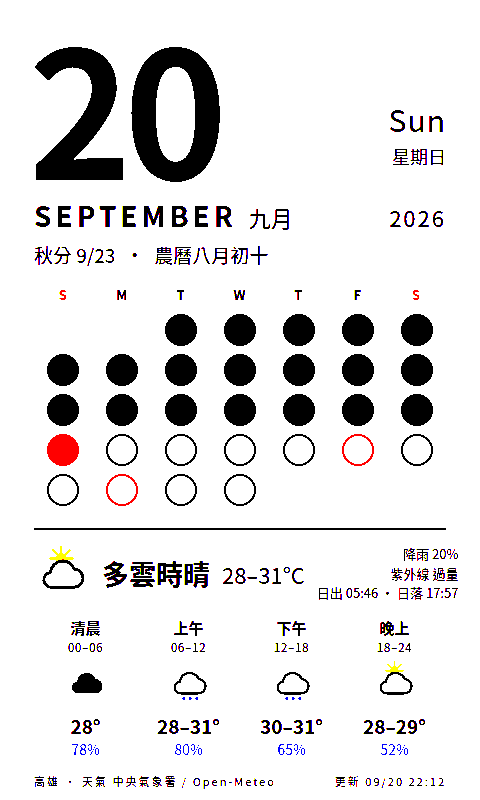
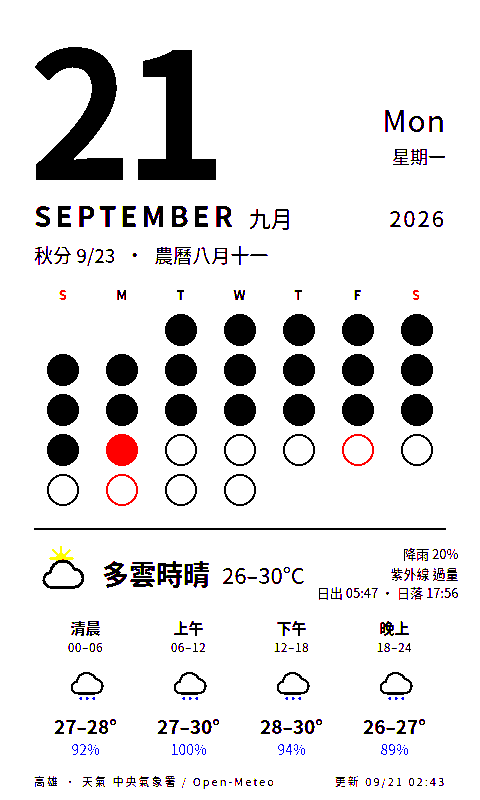
deploy: cf7d1051eb6821bc691ba0ade4beb12cdf9fe0ef

diff --git a/calendar.html b/calendar.html
@@ -47,16 +47,16 @@
 </style></head>
 <body><div class="page">
   <div class="head">
-    <div class="num">20</div>
-    <div class="wd"><div class="en">Sun</div><div class="zh">星期日</div></div>
+    <div class="num">21</div>
+    <div class="wd"><div class="en">Mon</div><div class="zh">星期一</div></div>
   </div>
   <div class="month"><span class="en">SEPTEMBER</span><span class="zh">九月</span><span class="yr">2026</span></div>
-  <div class="today"><span class="lunar">秋分 9/23</span><span>·</span><span class="lunar">農曆八月初十</span></div>
-  <div class="grid"><div class="h we">S</div><div class="h">M</div><div class="h">T</div><div class="h">W</div><div class="h">T</div><div class="h">F</div><div class="h we">S</div><div class="dot empty"></div><div class="dot empty"></div><div class="dot past" title="1"></div><div class="dot past" title="2"></div><div class="dot past" title="3"></div><div class="dot past" title="4"></div><div class="dot past" title="5"></div><div class="dot past" title="6"></div><div class="dot past" title="7"></div><div class="dot past" title="8"></div><div class="dot past" title="9"></div><div class="dot past" title="10"></div><div class="dot past" title="11"></div><div class="dot past" title="12"></div><div class="dot past" title="13"></div><div class="dot past" title="14"></div><div class="dot past" title="15"></div><div class="dot past" title="16"></div><div class="dot past" title="17"></div><div class="dot past" title="18"></div><div class="dot past" title="19"></div><div class="dot now" title="20"></div><div class="dot future" title="21"></div><div class="dot future" title="22"></div><div class="dot future" title="23"></div><div class="dot future" title="24"></div><div class="dot future hol" title="25"></div><div class="dot future" title="26"></div><div class="dot future" title="27"></div><div class="dot future hol" title="28"></div><div class="dot future" title="29"></div><div class="dot future" title="30"></div></div>
+  <div class="today"><span class="lunar">秋分 9/23</span><span>·</span><span class="lunar">農曆八月十一</span></div>
+  <div class="grid"><div class="h we">S</div><div class="h">M</div><div class="h">T</div><div class="h">W</div><div class="h">T</div><div class="h">F</div><div class="h we">S</div><div class="dot empty"></div><div class="dot empty"></div><div class="dot past" title="1"></div><div class="dot past" title="2"></div><div class="dot past" title="3"></div><div class="dot past" title="4"></div><div class="dot past" title="5"></div><div class="dot past" title="6"></div><div class="dot past" title="7"></div><div class="dot past" title="8"></div><div class="dot past" title="9"></div><div class="dot past" title="10"></div><div class="dot past" title="11"></div><div class="dot past" title="12"></div><div class="dot past" title="13"></div><div class="dot past" title="14"></div><div class="dot past" title="15"></div><div class="dot past" title="16"></div><div class="dot past" title="17"></div><div class="dot past" title="18"></div><div class="dot past" title="19"></div><div class="dot past" title="20"></div><div class="dot now" title="21"></div><div class="dot future" title="22"></div><div class="dot future" title="23"></div><div class="dot future" title="24"></div><div class="dot future hol" title="25"></div><div class="dot future" title="26"></div><div class="dot future" title="27"></div><div class="dot future hol" title="28"></div><div class="dot future" title="29"></div><div class="dot future" title="30"></div></div>
   <div class="wx"><div class="line">
-    <div class="wxhead"><svg viewBox="0 0 64 68" xmlns="http://www.w3.org/2000/svg"><g transform="translate(12 -4) scale(.6)"><circle cx="32" cy="32" r="11" fill="#f5c400"/><g stroke="#f5c400" stroke-width="4" stroke-linecap="round"><line x1="32" y1="32" x2="32" y2="8" transform="rotate(0 32 32)"/><line x1="32" y1="32" x2="32" y2="8" transform="rotate(45 32 32)"/><line x1="32" y1="32" x2="32" y2="8" transform="rotate(90 32 32)"/><line x1="32" y1="32" x2="32" y2="8" transform="rotate(135 32 32)"/><line x1="32" y1="32" x2="32" y2="8" transform="rotate(180 32 32)"/><line x1="32" y1="32" x2="32" y2="8" transform="rotate(225 32 32)"/><line x1="32" y1="32" x2="32" y2="8" transform="rotate(270 32 32)"/><line x1="32" y1="32" x2="32" y2="8" transform="rotate(315 32 32)"/></g></g><path d="M20 50h26a11 11 0 0 0 1-22 15 15 0 0 0-29 4 9 9 0 0 0 2 18z" fill="#fff" stroke="#000" stroke-width="3.5" stroke-linejoin="round"/></svg><span class="desc">多雲時晴</span><span class="temp">28–31°C</span>
-      <div class="meta">降雨 20%<br>紫外線 過量<br>日出 05:46 · 日落 17:57</div></div>
-    <div class="slots"><div class="slot"><div class="n">清晨</div><div class="hrs">00–06</div><svg viewBox="0 0 64 68" xmlns="http://www.w3.org/2000/svg"><path d="M20 50h26a11 11 0 0 0 1-22 15 15 0 0 0-29 4 9 9 0 0 0 2 18z" fill="#000"/></svg><div class="t">28°</div><div class="p ">78%</div></div><div class="slot"><div class="n">上午</div><div class="hrs">06–12</div><svg viewBox="0 0 64 68" xmlns="http://www.w3.org/2000/svg"><path d="M20 50h26a11 11 0 0 0 1-22 15 15 0 0 0-29 4 9 9 0 0 0 2 18z" fill="#fff" stroke="#000" stroke-width="3.5" stroke-linejoin="round"/><g fill="#0040ff"><circle cx="24" cy="58" r="2.2"/><circle cx="34" cy="58" r="2.2"/><circle cx="44" cy="58" r="2.2"/></g></svg><div class="t">28–31°</div><div class="p ">80%</div></div><div class="slot"><div class="n">下午</div><div class="hrs">12–18</div><svg viewBox="0 0 64 68" xmlns="http://www.w3.org/2000/svg"><path d="M20 50h26a11 11 0 0 0 1-22 15 15 0 0 0-29 4 9 9 0 0 0 2 18z" fill="#fff" stroke="#000" stroke-width="3.5" stroke-linejoin="round"/><g fill="#0040ff"><circle cx="24" cy="58" r="2.2"/><circle cx="34" cy="58" r="2.2"/><circle cx="44" cy="58" r="2.2"/></g></svg><div class="t">30–31°</div><div class="p ">65%</div></div><div class="slot"><div class="n">晚上</div><div class="hrs">18–24</div><svg viewBox="0 0 64 68" xmlns="http://www.w3.org/2000/svg"><g transform="translate(12 -4) scale(.6)"><circle cx="32" cy="32" r="11" fill="#f5c400"/><g stroke="#f5c400" stroke-width="4" stroke-linecap="round"><line x1="32" y1="32" x2="32" y2="8" transform="rotate(0 32 32)"/><line x1="32" y1="32" x2="32" y2="8" transform="rotate(45 32 32)"/><line x1="32" y1="32" x2="32" y2="8" transform="rotate(90 32 32)"/><line x1="32" y1="32" x2="32" y2="8" transform="rotate(135 32 32)"/><line x1="32" y1="32" x2="32" y2="8" transform="rotate(180 32 32)"/><line x1="32" y1="32" x2="32" y2="8" transform="rotate(225 32 32)"/><line x1="32" y1="32" x2="32" y2="8" transform="rotate(270 32 32)"/><line x1="32" y1="32" x2="32" y2="8" transform="rotate(315 32 32)"/></g></g><path d="M20 50h26a11 11 0 0 0 1-22 15 15 0 0 0-29 4 9 9 0 0 0 2 18z" fill="#fff" stroke="#000" stroke-width="3.5" stroke-linejoin="round"/></svg><div class="t">28–29°</div><div class="p ">52%</div></div></div>
+    <div class="wxhead"><svg viewBox="0 0 64 68" xmlns="http://www.w3.org/2000/svg"><g transform="translate(12 -4) scale(.6)"><circle cx="32" cy="32" r="11" fill="#f5c400"/><g stroke="#f5c400" stroke-width="4" stroke-linecap="round"><line x1="32" y1="32" x2="32" y2="8" transform="rotate(0 32 32)"/><line x1="32" y1="32" x2="32" y2="8" transform="rotate(45 32 32)"/><line x1="32" y1="32" x2="32" y2="8" transform="rotate(90 32 32)"/><line x1="32" y1="32" x2="32" y2="8" transform="rotate(135 32 32)"/><line x1="32" y1="32" x2="32" y2="8" transform="rotate(180 32 32)"/><line x1="32" y1="32" x2="32" y2="8" transform="rotate(225 32 32)"/><line x1="32" y1="32" x2="32" y2="8" transform="rotate(270 32 32)"/><line x1="32" y1="32" x2="32" y2="8" transform="rotate(315 32 32)"/></g></g><path d="M20 50h26a11 11 0 0 0 1-22 15 15 0 0 0-29 4 9 9 0 0 0 2 18z" fill="#fff" stroke="#000" stroke-width="3.5" stroke-linejoin="round"/></svg><span class="desc">多雲時晴</span><span class="temp">26–30°C</span>
+      <div class="meta">降雨 20%<br>紫外線 過量<br>日出 05:47 · 日落 17:56</div></div>
+    <div class="slots"><div class="slot"><div class="n">清晨</div><div class="hrs">00–06</div><svg viewBox="0 0 64 68" xmlns="http://www.w3.org/2000/svg"><path d="M20 50h26a11 11 0 0 0 1-22 15 15 0 0 0-29 4 9 9 0 0 0 2 18z" fill="#fff" stroke="#000" stroke-width="3.5" stroke-linejoin="round"/><g fill="#0040ff"><circle cx="24" cy="58" r="2.2"/><circle cx="34" cy="58" r="2.2"/><circle cx="44" cy="58" r="2.2"/></g></svg><div class="t">27–28°</div><div class="p ">92%</div></div><div class="slot"><div class="n">上午</div><div class="hrs">06–12</div><svg viewBox="0 0 64 68" xmlns="http://www.w3.org/2000/svg"><path d="M20 50h26a11 11 0 0 0 1-22 15 15 0 0 0-29 4 9 9 0 0 0 2 18z" fill="#fff" stroke="#000" stroke-width="3.5" stroke-linejoin="round"/><g fill="#0040ff"><circle cx="24" cy="58" r="2.2"/><circle cx="34" cy="58" r="2.2"/><circle cx="44" cy="58" r="2.2"/></g></svg><div class="t">27–30°</div><div class="p ">100%</div></div><div class="slot"><div class="n">下午</div><div class="hrs">12–18</div><svg viewBox="0 0 64 68" xmlns="http://www.w3.org/2000/svg"><path d="M20 50h26a11 11 0 0 0 1-22 15 15 0 0 0-29 4 9 9 0 0 0 2 18z" fill="#fff" stroke="#000" stroke-width="3.5" stroke-linejoin="round"/><g fill="#0040ff"><circle cx="24" cy="58" r="2.2"/><circle cx="34" cy="58" r="2.2"/><circle cx="44" cy="58" r="2.2"/></g></svg><div class="t">28–30°</div><div class="p ">94%</div></div><div class="slot"><div class="n">晚上</div><div class="hrs">18–24</div><svg viewBox="0 0 64 68" xmlns="http://www.w3.org/2000/svg"><path d="M20 50h26a11 11 0 0 0 1-22 15 15 0 0 0-29 4 9 9 0 0 0 2 18z" fill="#fff" stroke="#000" stroke-width="3.5" stroke-linejoin="round"/><g fill="#0040ff"><circle cx="24" cy="58" r="2.2"/><circle cx="34" cy="58" r="2.2"/><circle cx="44" cy="58" r="2.2"/></g></svg><div class="t">26–27°</div><div class="p ">89%</div></div></div>
   </div></div>
-  <div class="foot"><span>高雄 · 天氣 中央氣象署 / Open-Meteo</span><span>更新 09/20 22:12</span></div>
+  <div class="foot"><span>高雄 · 天氣 中央氣象署 / Open-Meteo</span><span>更新 09/21 02:43</span></div>
 </div></body></html>
